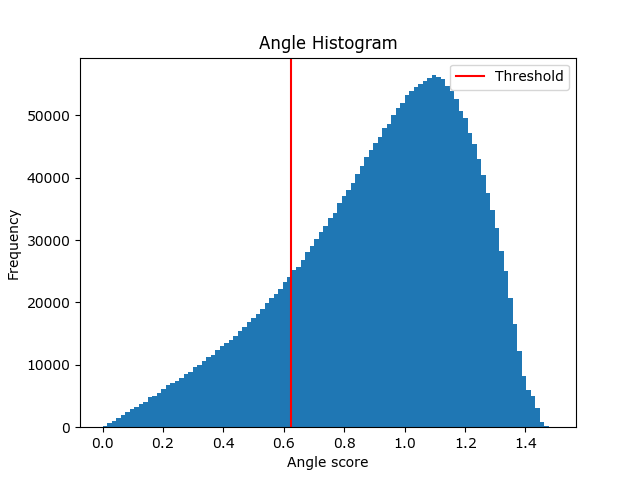
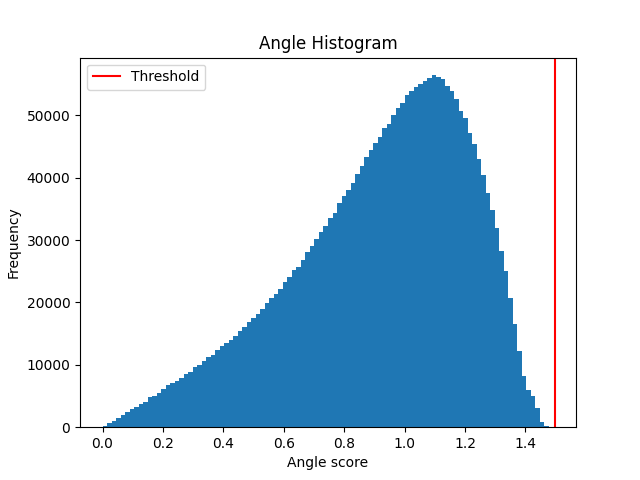
.

diff --git a/scrips/manual_clustering.py b/scrips/manual_clustering.py
@@ -123,7 +123,7 @@ for item in layer_0_results_a:
 mean_scores_0_a = np.mean(scores_0_a)
 std_scores_0_a = np.std(scores_0_a)
 #Threshold
-n_std_a = -1
+n_std_a = 2
 threshold_angle = mean_scores_0_a + n_std_a * std_scores_0_a
 # Plot histogram
 plt.figure()
@@ -247,3 +247,5 @@ plt.show()
 """Explanation for myself/group: We currently have a graph with all branches (connections between couples of nodes) 
 that satisfy both thresholds. For each layer, the iteration will check if that branch (between two nodes/fibres) satisfies
 again both set thresholds to determine whether a fibre is clusterable throughout the full length."""
+
+print(data_clean)
